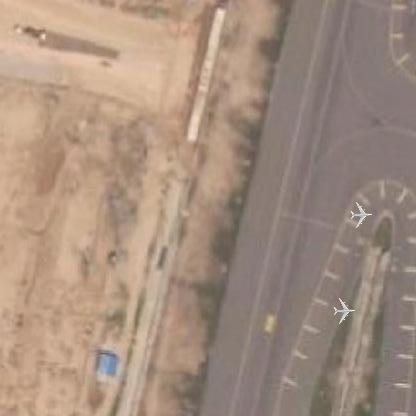
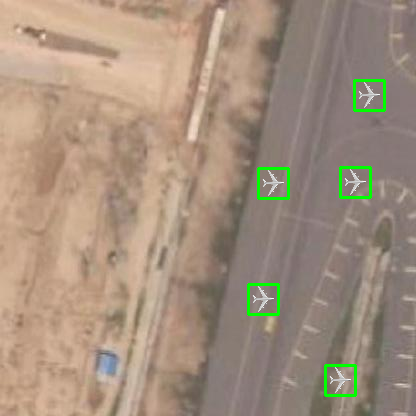
c

diff --git a/main.py b/main.py
@@ -18,7 +18,7 @@ transparent_overlayimg(object_dim)
 
 # Paste Transperent Overlay on Satilite Imagery
 offset = 5
-flag_rect = False
+flag_rect = True
 overlayimg_make(offset,flag_rect)
 
 
